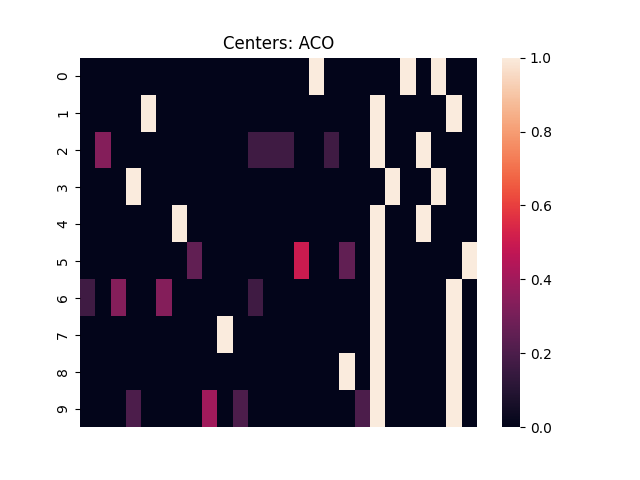
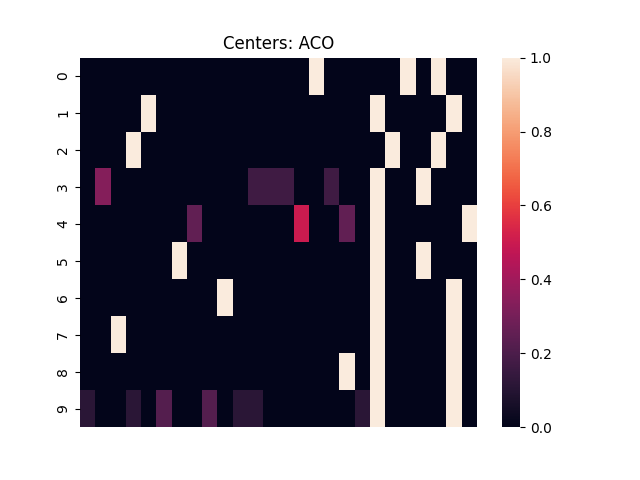
aco and pso

diff --git a/clustering_aco.py b/clustering_aco.py
@@ -2,6 +2,7 @@ import numpy as np
 import random
 from evaluation import evaluate_clustering
 from sklearn.cluster import KMeans
+from sklearn.preprocessing import StandardScaler
 
 class Ant:
     def __init__(self, X, pher, alpha, beta, eta):
@@ -36,7 +37,8 @@ class AntColonyClustering:
         km = KMeans(n_clusters=self.k, init='k-means++', n_init=1).fit(self.X)
         centers = km.cluster_centers_
         distances = np.linalg.norm(self.X[:, None, :] - centers[None, :, :], axis=2)
-        self.eta = 1.0 / (distances + 1e-10)
+        # self.eta = 1.0 / (distances + 1e-10)
+        self.eta = np.exp(-distances / (np.std(distances) + 1e-5))
 
     def run(self):
         for it in range(self.iters):
@@ -59,9 +61,15 @@ class AntColonyClustering:
             self.pher *= (1 - self.rho)
             self.pher = np.clip(self.pher, 1e-6, 10.0)
 
-            # Elitist strategy: update only from best ant
-            for i, lab in enumerate(best_labels):
-                self.pher[i, lab] += self.Q / best_cost
+            # # Elitist strategy: update only from best ant
+            # for i, lab in enumerate(best_labels):
+            #     self.pher[i, lab] += self.Q / best_cost
+            top_ants = sorted(all_sols, key=lambda x: x[1])[:3]
+            self.Q = np.log(self.n_ants + 1)
+            for labels, cost in top_ants:
+                for i, lab in enumerate(labels):
+                    self.pher[i, lab] += self.Q / cost
+
 
             # Cluster-center repair: reassign empty clusters
             present_clusters = set(best_labels)

diff --git a/clustering_pso.py b/clustering_pso.py
@@ -44,7 +44,8 @@ class PSOClustering:
         km = KMeans(n_clusters=self.k, init='k-means++', n_init=1).fit(self.X)
         seed = km.cluster_centers_.flatten()
         for i in range(min(n_particles, self.k)):
-            self.particles[i].position = seed.copy()
+            noise = np.random.normal(0, 0.01, seed.shape)
+            self.particles[i].position = np.clip(seed + noise, bounds[0], bounds[1])
 
     def optimize(self, patience= 20):
         history = []

diff --git a/main.py b/main.py
@@ -74,6 +74,7 @@ def main(path, cat_cols, num_cols, find_k=False):
         if h: plot_convergence(h,name)
     plot_cluster_centers_heatmap(X,labels)
 
+
 if __name__ == '__main__':
     main(
         path=r"C:\Users\User\Documents\GitHub\CI Project\sample.tsv",
